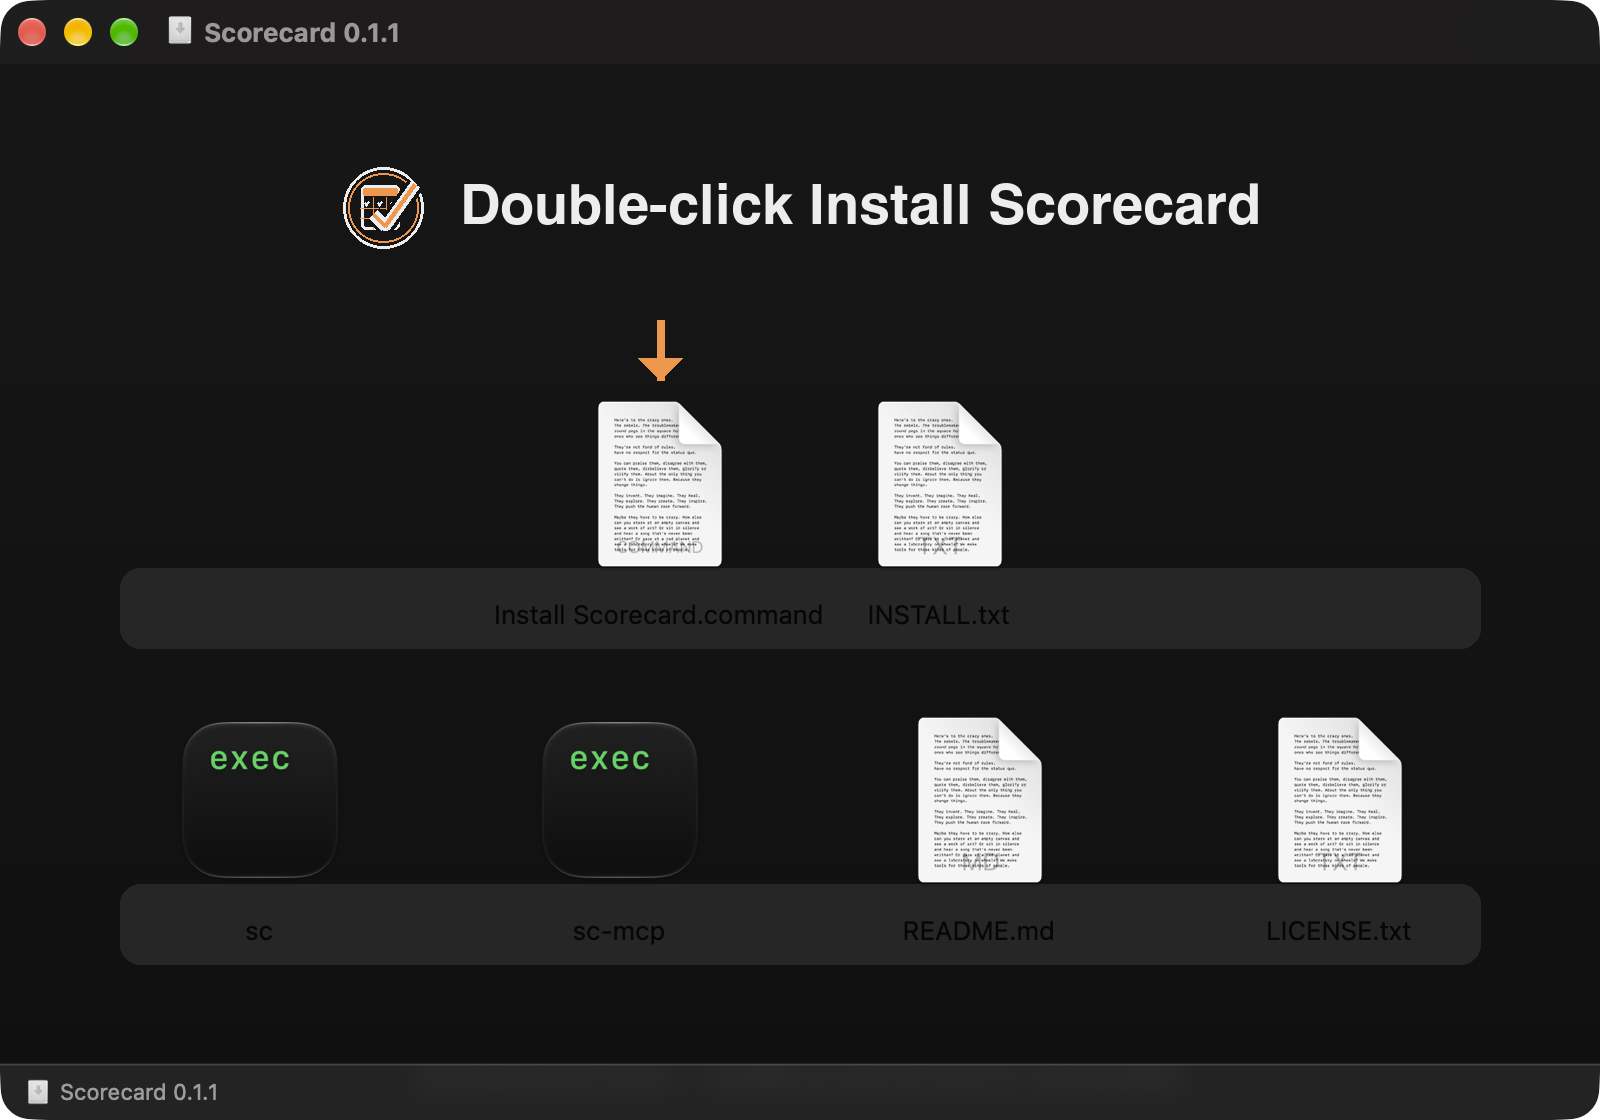
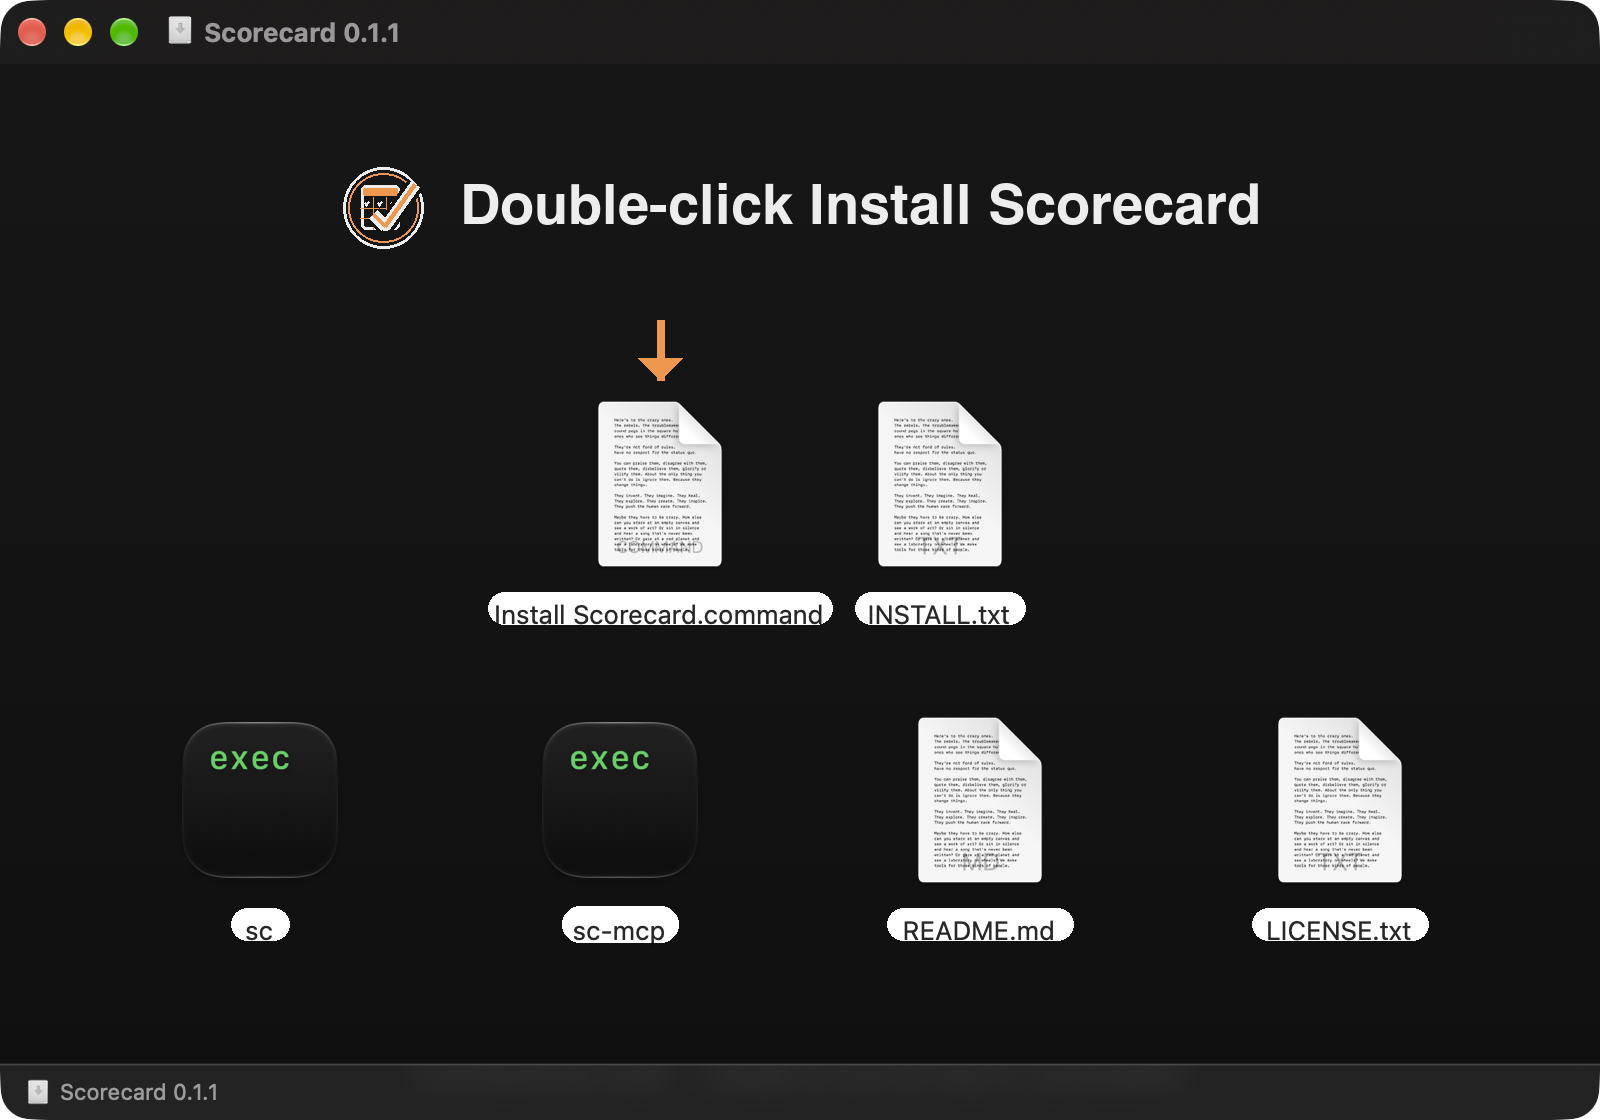
Use white label pills so Finder names read on dark

diff --git a/packaging/make-dmg-background.py b/packaging/make-dmg-background.py
@@ -44,6 +44,16 @@ def font(size, bold=False):
     return ImageFont.load_default()
 
 
+def label_pill(d, cx, cy, text, font_face):
+    """White pill behind one icon label so Finder's black text reads
+    on the dark background. Sized from the text plus padding."""
+    left, _, right, bottom = d.textbbox((0, 0), text, font=font_face)
+    pad_x, pad_y = 16, 5
+    w = (right - left) + pad_x * 2
+    h = (bottom - 0) + pad_y * 2
+    d.rounded_rectangle([cx - w / 2, cy - h / 2, cx + w / 2, cy + h / 2], radius=h / 2, fill=(255, 255, 255))
+
+
 def draw_logo(d, cx, cy, size):
     """Scorecard logo mark: ring, doc, grid ticks, orange check."""
     u = size / 100.0
@@ -85,11 +95,18 @@ def draw(scale):
             px[x, y] = rgb
     d = ImageDraw.Draw(img)
     s = scale
-    # Lighter panels behind the icon label rows so Finder's dark
-    # labels stay readable in either system appearance (dmgbuild
-    # 1.6.5 cannot set the label color).
-    d.rounded_rectangle([60 * s, 252 * s, 740 * s, 292 * s], radius=10 * s, fill=PANEL)
-    d.rounded_rectangle([60 * s, 410 * s, 740 * s, 450 * s], radius=10 * s, fill=PANEL)
+    # White pills behind each icon label so Finder's black text reads
+    # on the dark background (label rows only; icons stay on dark).
+    pill_face = font(13 * s)
+    for cx, cy, name in (
+        (330, 272, "Install Scorecard.command"),
+        (470, 272, "INSTALL.txt"),
+        (130, 430, "sc"),
+        (310, 430, "sc-mcp"),
+        (490, 430, "README.md"),
+        (670, 430, "LICENSE.txt"),
+    ):
+        label_pill(d, cx * s, cy * s, name, pill_face)
     # Heading group: logo plus centered headline, 40px+ top padding.
     face = font(28 * s, bold=True)
     label = "Double-click Install Scorecard"
